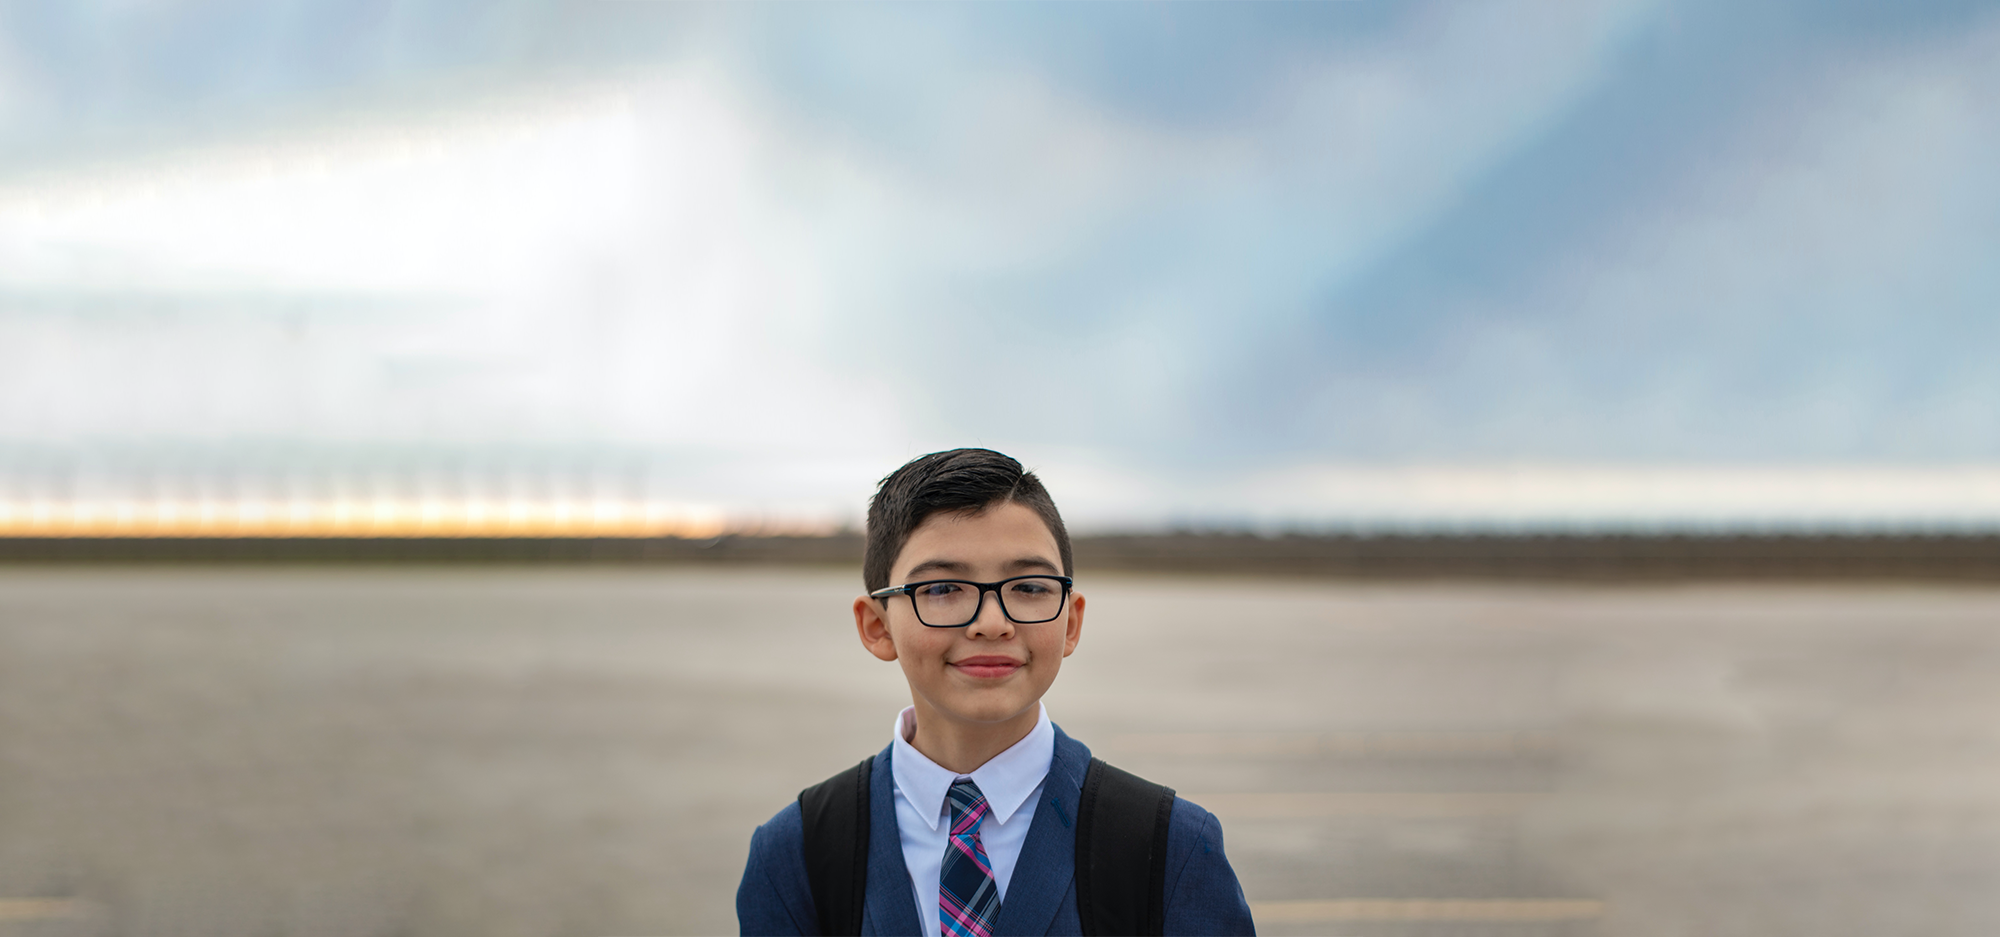
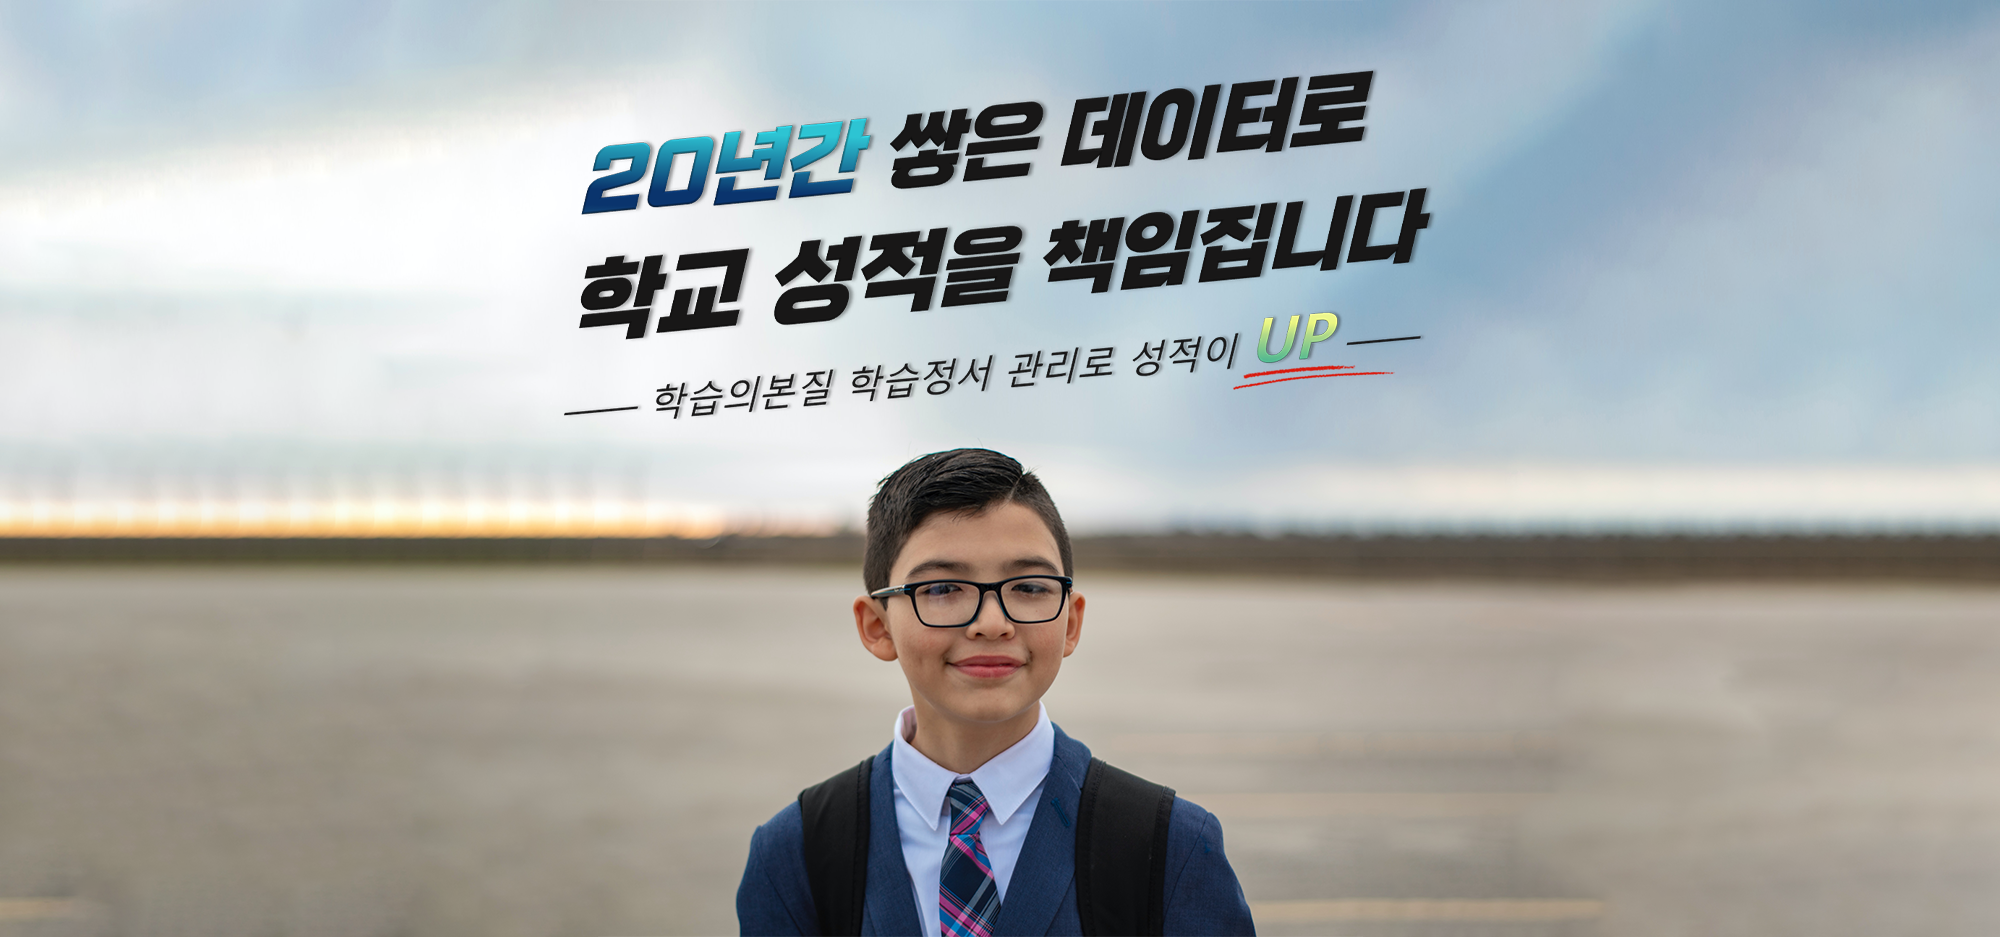
recentrly

Changed region(s): [[0.279, 0.0619, 0.713, 0.4642]]

diff --git a/index.html b/index.html
@@ -122,15 +122,14 @@
 
     <div class="container-fluid">
       <div class="row">
-        <div class="col-12 g-0 absolute-banner">
-          <div class="img-box">
+        <div class="col-12 g-0">
+          <div class="img-box" data-aos="fade-zoom-in"
+          data-aos-easing="ease-in-back"
+          data-aos-delay="1000"
+          data-aos-offset="0" data-aos-duration="800">
             <img src="images/banner.png" alt="banner">
           </div>
-          <div class="text-box">
-            <img src="images/11.png" class="text-img1" alt="text-banner">
-            <img src="images/22.png" class="text-img2" alt="text-banner">
           </div>
-        </div>
       </div>
 
     </div>
@@ -143,19 +142,91 @@
           <div class="subject_tit" data-aos="fade-down"
           data-aos-easing="linear"
           data-aos-duration="1500">
-            <img src="images/subject_title.png" alt="">
+            <img src="images/subject_title.png" alt="subject_banner">
           </div>
           <div class="subject_cur" data-aos="fade-down"
           data-aos-easing="linear"
           data-aos-duration="3000">
-            <img src="images/subject_cur.png" alt="">
+            <img src="images/subject_cur.png" alt="subject_banner">
+          </div>
+        </div>
+        <div class="col-2"></div>
+      </div>
+    </div>
+
+    <div class="container-fluid bg-primary">
+      <div class="row">
+        <div class="col-2"></div>
+        <div class="col-8 pd-10">
+          <div class="grade_tit">
+            <img src="images/teacher.png" alt="teacher_banner">
+          </div>
+          <div class="grade_teach">
+            <img src="images/element.png" alt="">
+            <img src="images/middle.png" alt="">
+            <img src="images/high.png" alt="">
           </div>
         </div>
         <div class="col-2"></div>
       </div>
     </div>
   
+    <div class="container-fluid">
+      <div class="row">
+        <div class="col-2"></div>
+        <div class="col-8">
+          <div class="qna_tit text-center">
+            <h1> 상담 문의 하기</h1>
+          </div>
+           <form action="">
+            <fieldset>
+              <div class="qna_name">
+                <label for="name" style="font-size: 2rem;">이름</label>
+                <input type="text" placeholder="이름">
+              </div>
+              <div class="school_grade d-flex">
+                <div class="school_name">
+                  <label for="school" style="font-size: 2rem;">학교이름</label>
+                  <input type="text" placeholder="학교이름  ex)OO중">
+                </div>
+                <div class="grade_type">
+                  <label for="grade" style="font-size: 2rem;">학년</label>
+                  <select name="grade" id="grade_ty">
+                    <option value="">학년선택</option>
+                    <option value="초3">초3</option>
+                    <option value="초4">초4</option>
+                    <option value="초5">초5</option>
+                    <option value="초6">초6</option>
+                    <option value="중1">중1</option>
+                    <option value="중2">중2</option>
+                    <option value="중3">중3</option>
+                    <option value="고1">고1</option>
+                    <option value="고2">고2</option>
+                    <option value="고3">고3</option>
+                  </select>
+                </div>
+              </div>
+              <div class="want_subject">
+                <label for="subject" style="font-size: 2rem;">수강 희망 과목</label>
+                <input type="text" placeholder="국어/영어/수학/과학">
+              </div>
+              <div class="phone_no">
+                <label for="number" style="font-size: 2rem;">연락처</label>
+                <input type="number" placeholder="연락받으실 전화번호 입력">
+              </div>
+              <div class="send_btn">
+                <button type="submit">문의하기</button>
+              </div>
+            </fieldset>
 
+           </form>
+      
+        </div>
+        <div class="col-2"></div>
+      </div>
+
+      
+    </div>
 
 
     <script src="https://unpkg.com/aos@2.3.1/dist/aos.js"></script>

diff --git a/css/newstyle.css b/css/newstyle.css
@@ -2,37 +2,23 @@
     margin: 0;
     padding: 0;
 }
+.pd-10{
+    padding: 10% 0;
+}
+
+/* main_banner */
 .img-box img{
   width: 100%;
-  /* position: absolute; */
 }
 .absolute-banner{
-    position: relative;
     width: 100%;
-    /* height: 100vh; */
 }
-.text-box{
-    width: 100%;
-    display: flex;
-    flex-direction: column;
-    position: absolute;
-  top: 50%;
-  left: 50%;
-  transform:translate(-50%,-50%);
-}
-.text-box img{
-    width: 45%;
-}
-.text-box .text-img2{
-    transform:translate(58%,-185%) ;
-}
-.text-box .text-img1{
-    transform: translate(58%,-70%) !important;
-}
+
+/* section_01 */
 
 .subject_tit{
     width: 100%;
-    padding: 0 0 5%;
+    padding: 0 0 10%;
 }
 .subject_tit img{
     width: 100%;
@@ -49,6 +35,21 @@
     width: 100%;
 }
 
-.pd-10{
-    padding: 10% 0;
+/* section_02 */
+
+.grade_tit img{
+    width: 100%;
+    padding: 0 0 15%;
 }
+.grade_teach img{
+    width:100%;
+    padding-bottom: 5%;
+}
+.grade_teach{
+    width: 100%;
+    background: rgb(255, 255, 9);
+    border-radius: 10px;
+    padding: 5% 5% 0% 5%;
+}
+
+/* qna section */
